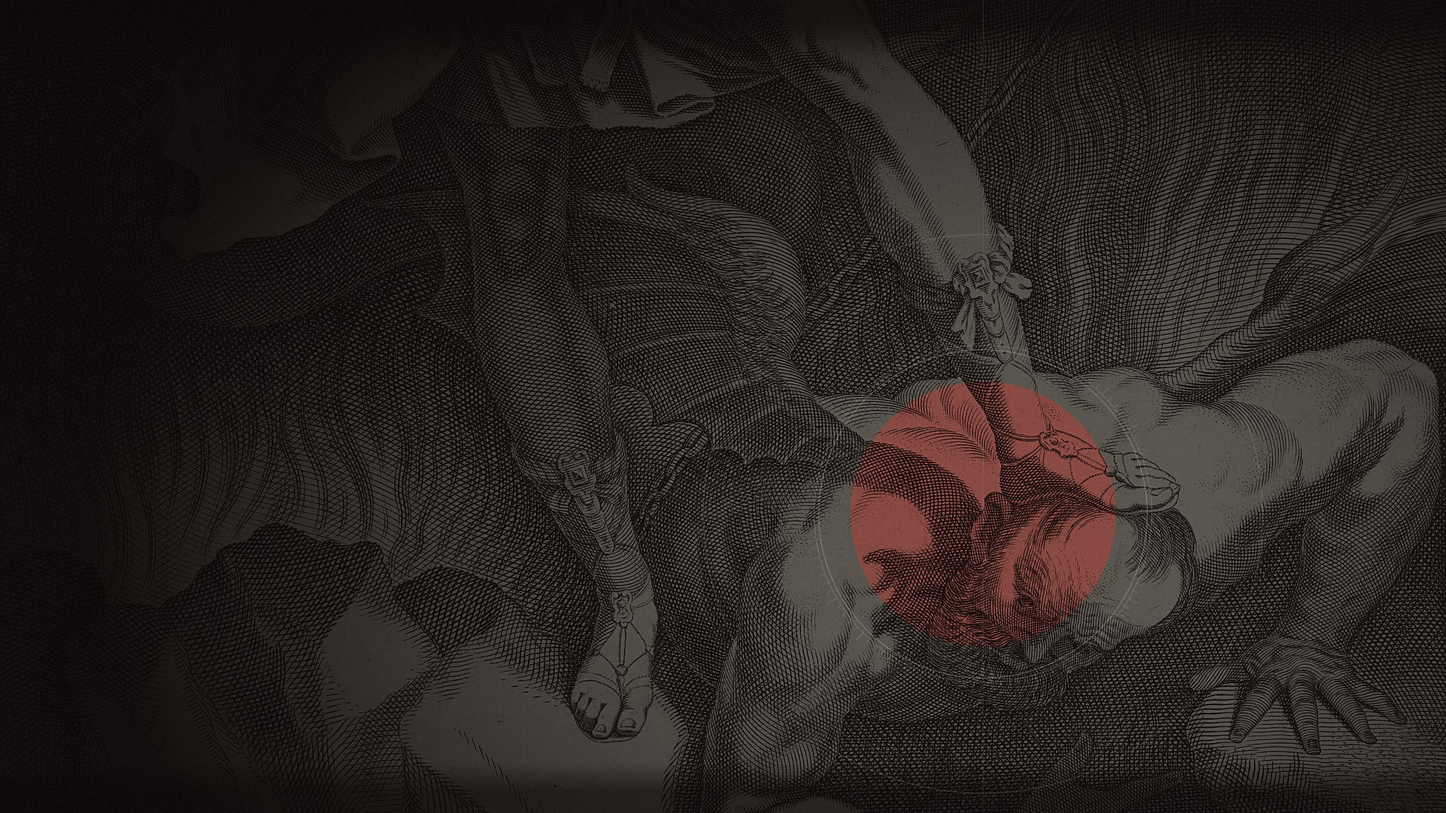
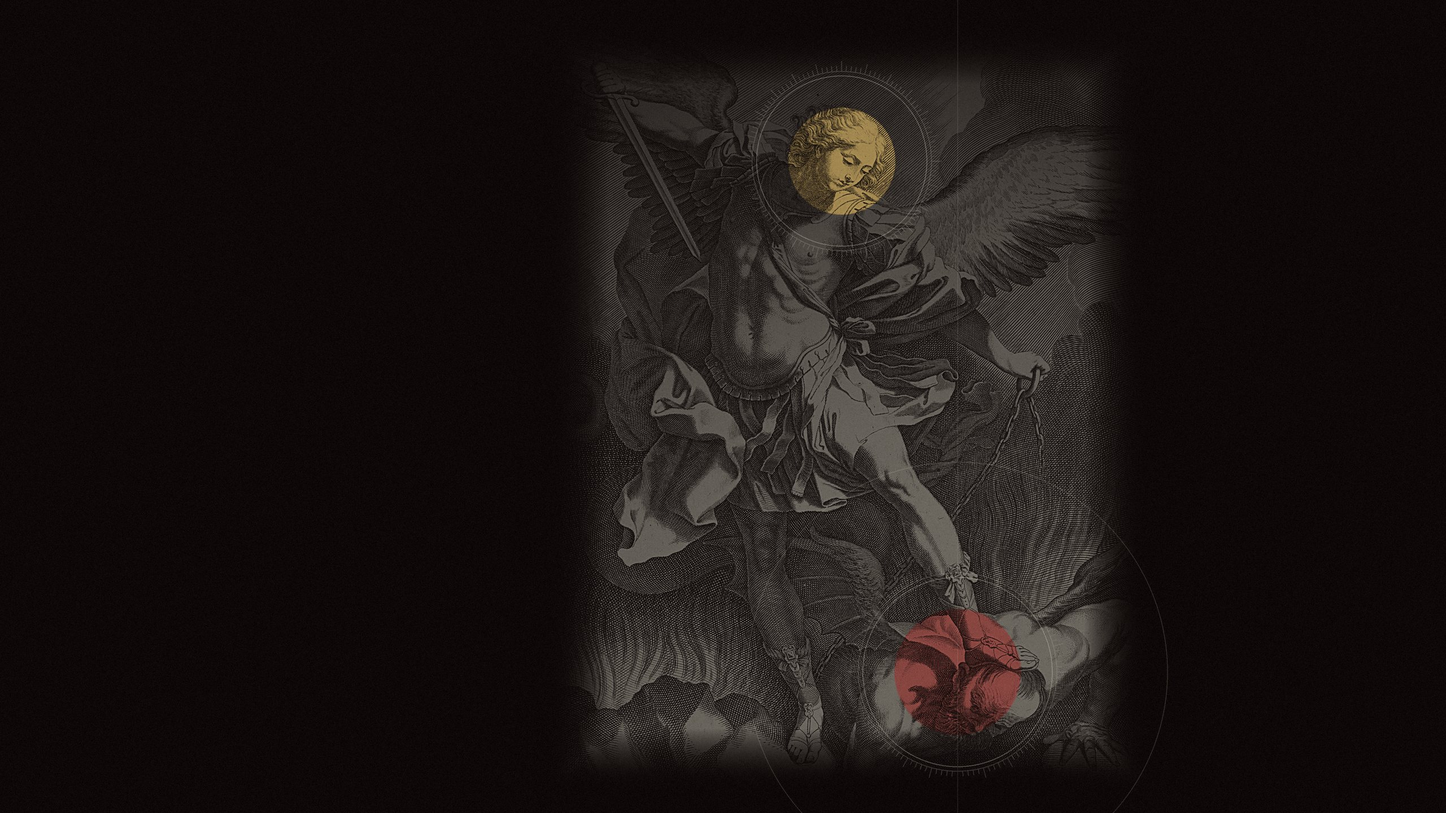
feat: show Michael and Lucifer with a disc each, in red and gold
The whole engraving now sits on a ground of ink, so both figures are on the wallpaper. Lucifer is a two-colour theme: red fills, gold for lines and letters.

diff --git a/README.md b/README.md
@@ -1,6 +1,6 @@
 # strix-theme-lucifer
 
-A theme for Strix, outside the eight Roman gods: Lucifer, the fallen light-bringer under the archangel's foot. Ember as the accent (`#9c4f47` on `#0e0908`), the grounds tinted faintly toward it.
+A theme for Strix, outside the eight Roman gods: Lucifer under the foot of the archangel Michael. Two colours: red for Lucifer (`#984742`) fills buttons, progress and his disc; gold for Michael (`#c8a65d`) draws lines and letters (links, carets, focus) and his disc. The grounds are tinted faintly toward the red.
 
 ![The wallpaper](themes/lucifer/wallpaper.jpg)
 
@@ -8,7 +8,7 @@ A theme for Strix, outside the eight Roman gods: Lucifer, the fallen light-bring
 
 ## Picture
 
-Pieter de Bailliu (I) after Guido Reni, The Archangel Michael Tramples Satan, Rome, 1623 to 1660, published by Giovanni Battista de' Rossi. Rijksmuseum RP-P-BI-486, public domain. Cropped to Lucifer's head under Michael's foot and printed in two inks of the theme, with the ember disc, by `tools/pack.py` of StrixUI.
+Pieter de Bailliu (I) after Guido Reni, The Archangel Michael Tramples Satan, Rome, 1623 to 1660, published by Giovanni Battista de' Rossi. Rijksmuseum RP-P-BI-486, public domain. The whole scene is set on a ground of ink and printed in the inks of the theme, with a gold disc around Michael's head and a red one around Lucifer's, by `tools/pack.py` of StrixUI.
 
 ## Use it
 
@@ -24,7 +24,7 @@ Pieter de Bailliu (I) after Guido Reni, The Archangel Michael Tramples Satan, Ro
 
 ## Change it
 
-The theme is made from `source.toml`. Change the accent or the crop there, then:
+The theme is made from `source.toml`. Change the colours, the placement or the discs there, then:
 
 ```sh
 python3 ../strixui/tools/pack.py .    # ends with FAILS 0
